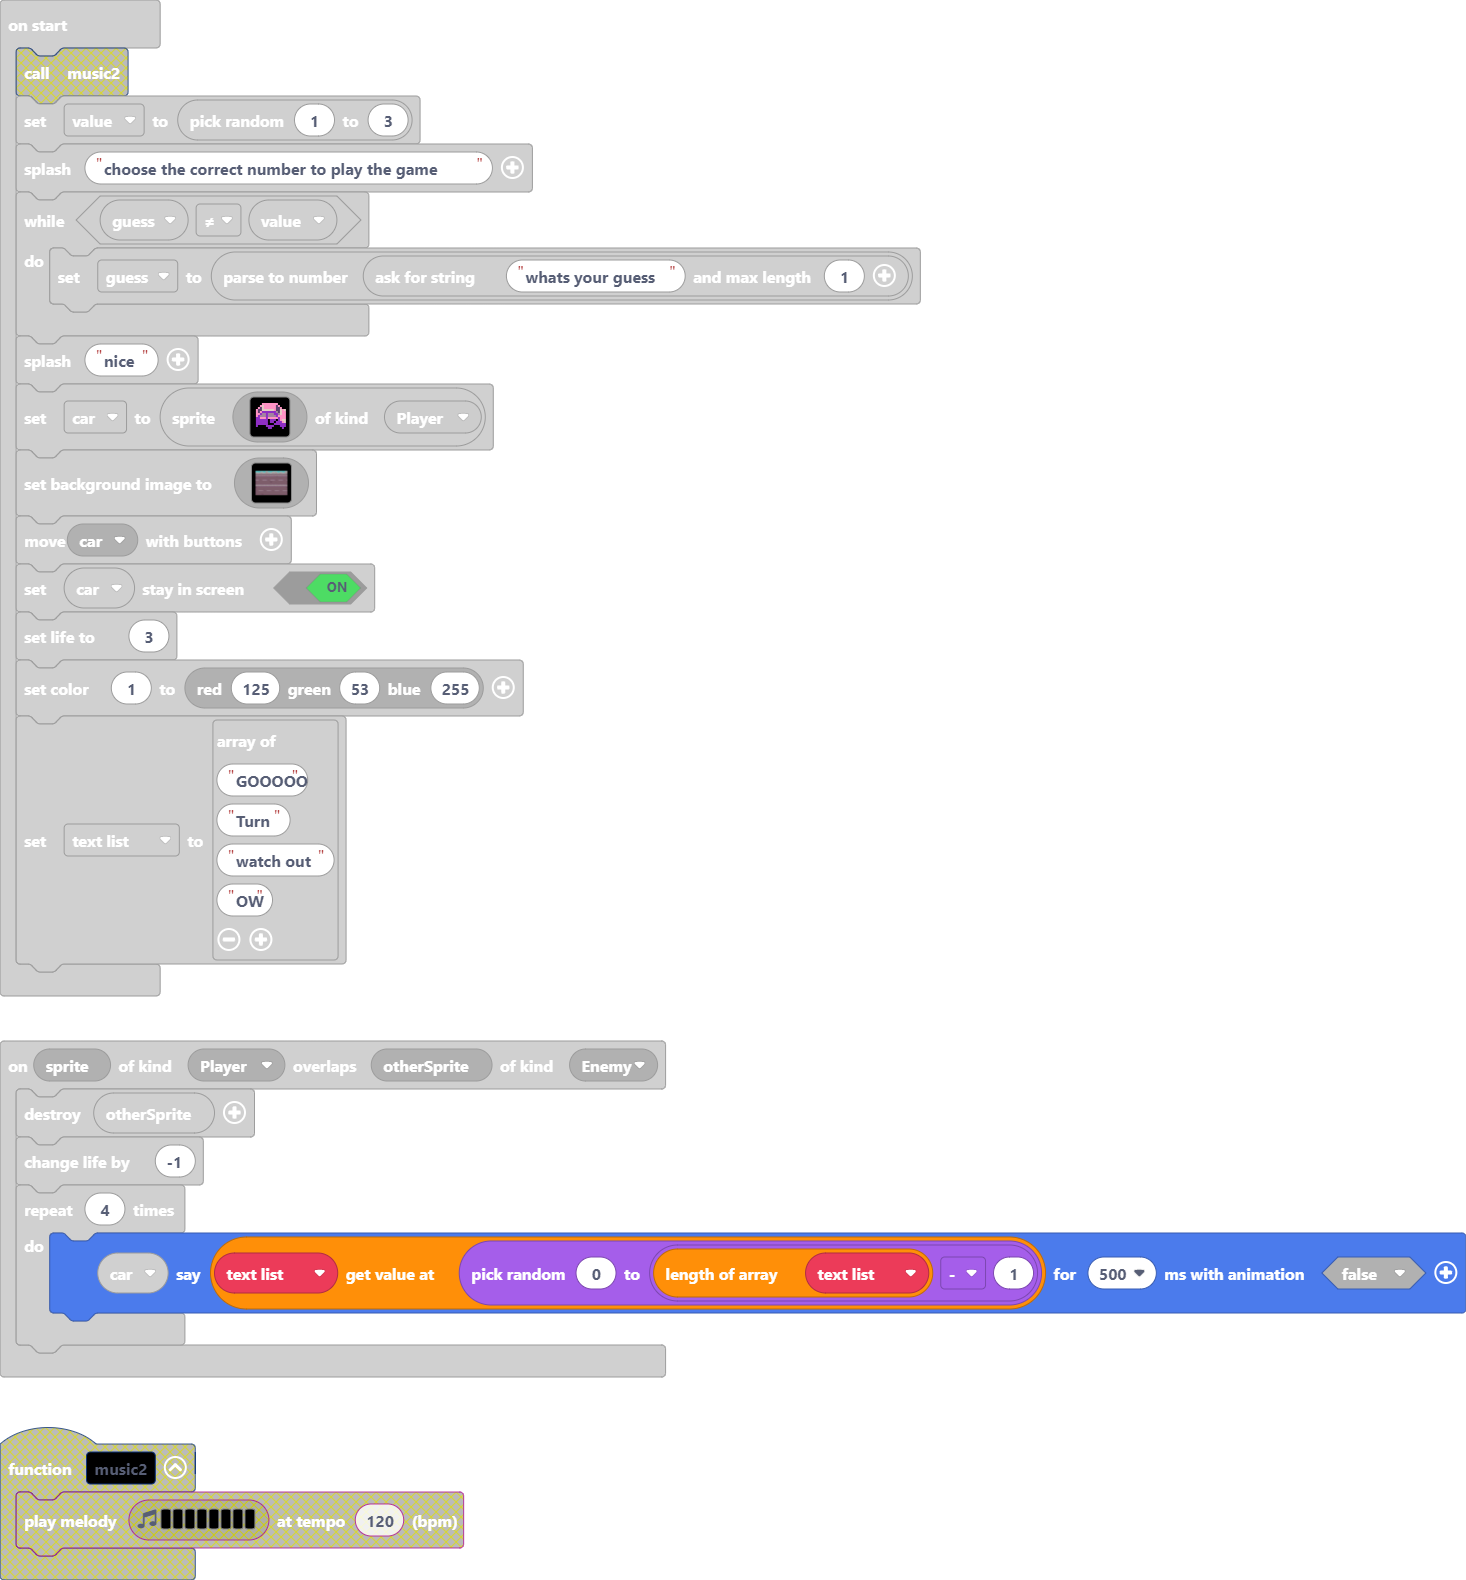
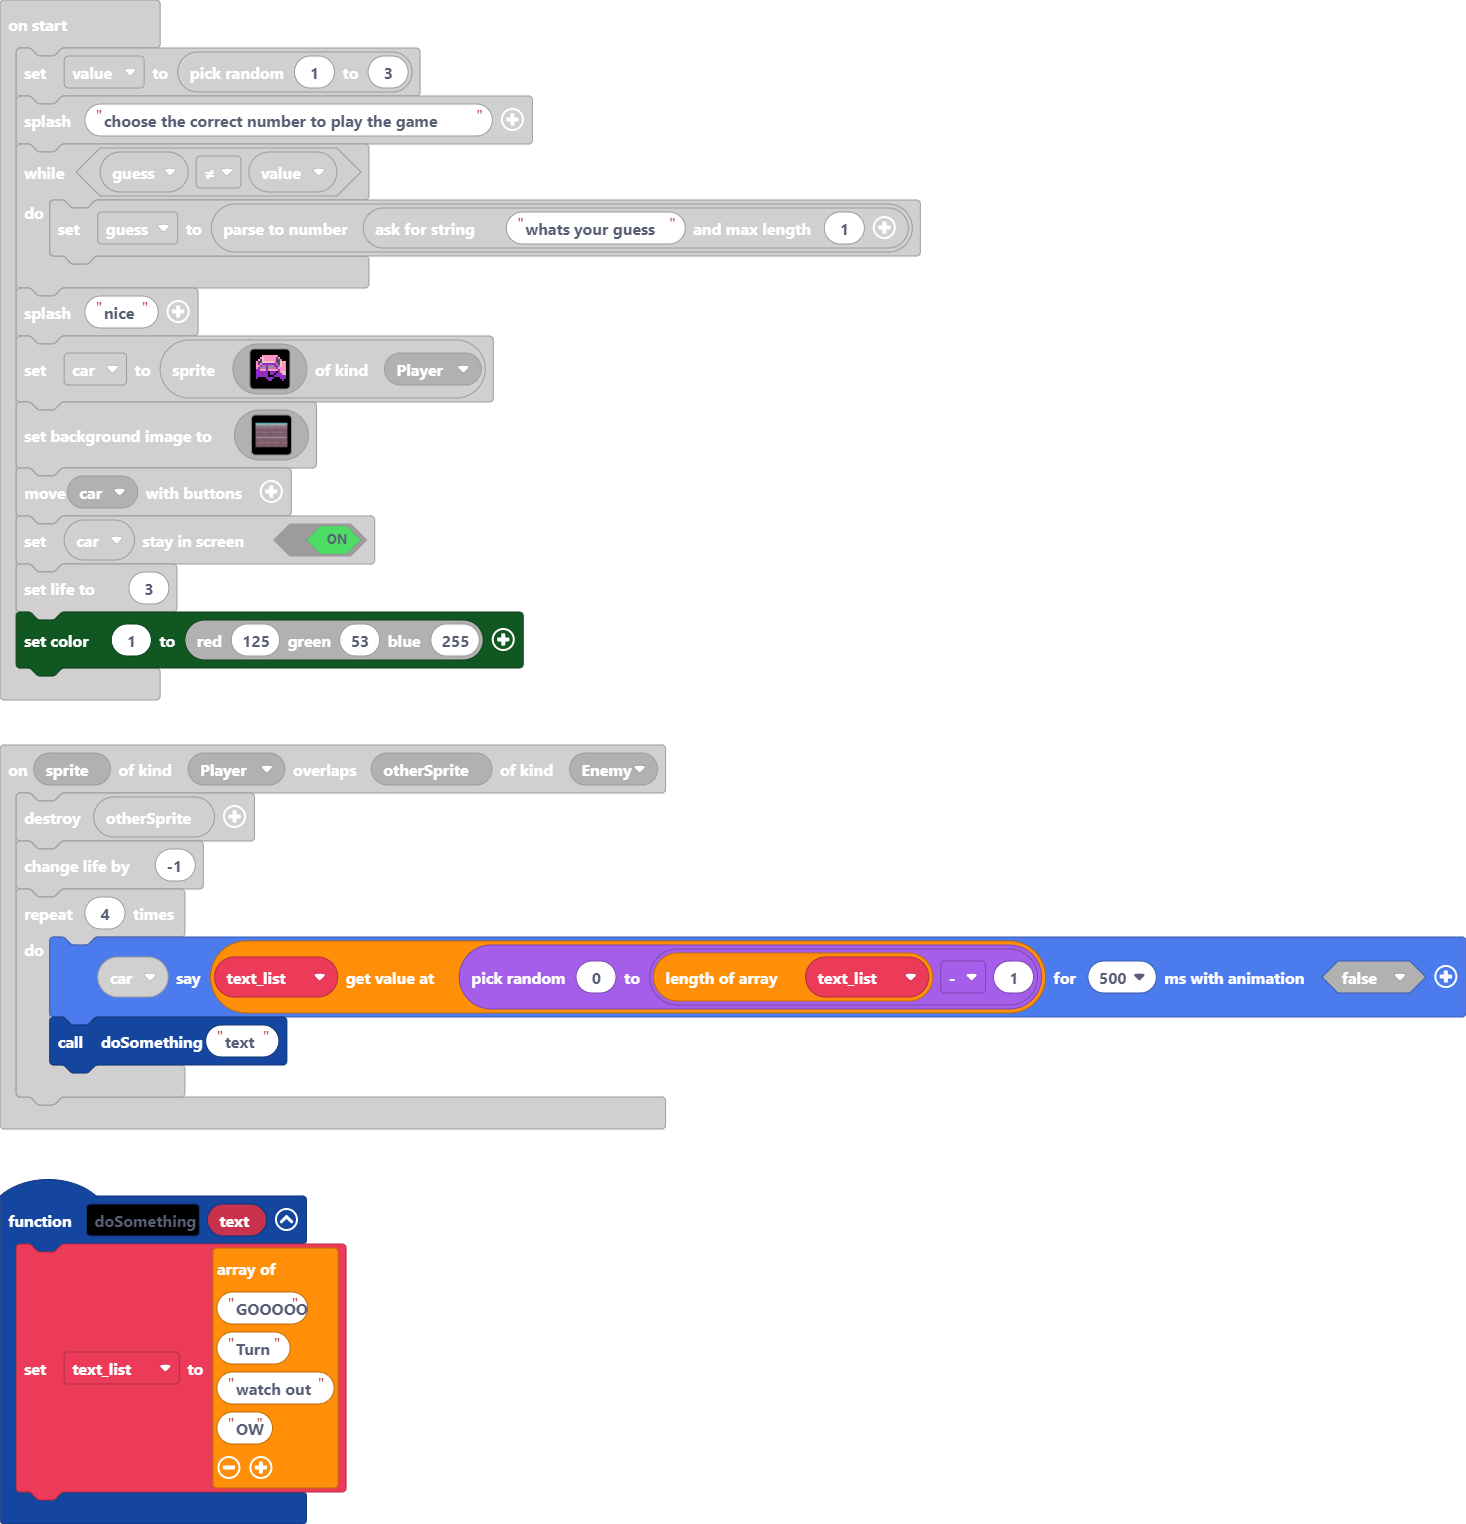
Update main.blocks, main.ts

Changed region(s): [[0.0, 0.0308, 1.0, 1.0]]

diff --git a/main.ts b/main.ts
@@ -1,8 +1,17 @@
+function doSomething (text: string) {
+    text_list = [
+    "GOOOOO",
+    "Turn",
+    "watch out",
+    "OW"
+    ]
+}
 sprites.onOverlap(SpriteKind.Player, SpriteKind.Enemy, function (sprite, otherSprite) {
     otherSprite.destroy()
     info.changeLifeBy(-1)
     for (let index = 0; index < 4; index++) {
         car.sayText(text_list[randint(0, text_list.length - 1)], 500, false)
+        doSomething("text")
     }
 })
 let monkey: Sprite = null
@@ -159,12 +168,6 @@ controller.moveSprite(car)
 car.setStayInScreen(true)
 info.setLife(3)
 color.setColor(1, color.rgb(125, 53, 255))
-text_list = [
-"GOOOOO",
-"Turn",
-"watch out",
-"OW"
-]
 game.onUpdateInterval(1000, function () {
     info.changeScoreBy(1)
 })
